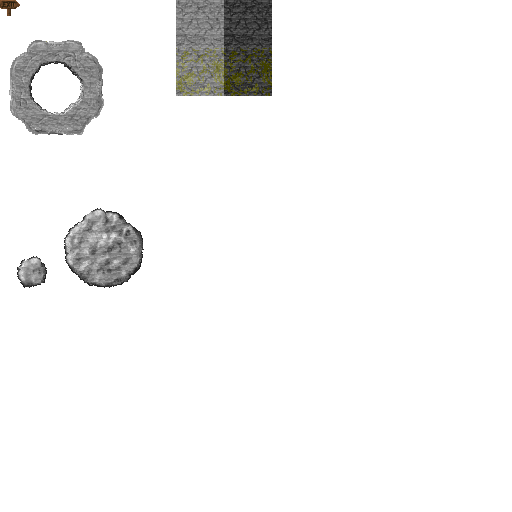
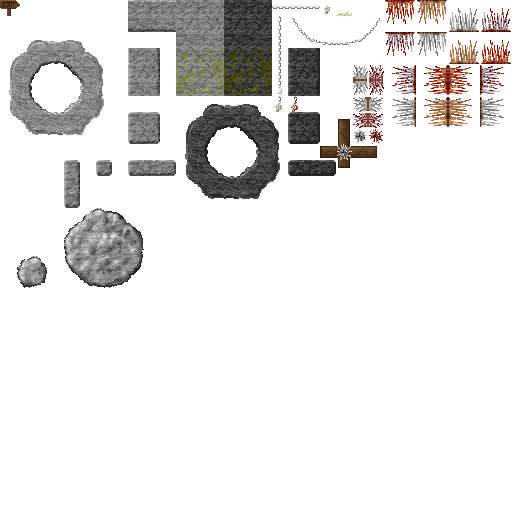
Uusi kartta lisätty Uusia layereitä lisätty GameMapiin Tilesetit päivitetty

diff --git a/SoV/src/sov/GameMap.java b/SoV/src/sov/GameMap.java
@@ -28,7 +28,7 @@ import com.badlogic.gdx.physics.box2d.World;
 public class GameMap {
 	
 	// LayerTypes correspond to layers in Tiled-maps
-	enum LayerType { Foreground, Background, StaticTiles, DynamicTiles, Creatures };
+	enum LayerType { Foreground, Background, StaticTiles, DynamicTiles, Creatures, Traps, Accessories };
 	
 	// Hold a reference to the player, for camera positioning etc.
 	Creature player;
@@ -134,6 +134,12 @@ public class GameMap {
 			} 
 			else if(layer.name.equals("Foreground")) {
 				layerIds.put(LayerType.Foreground, i);
+			}
+			else if(layer.name.equals("Traps")) {
+				layerIds.put(LayerType.Traps, i);
+			}
+			else if(layer.name.equals("Accessories")) {
+				layerIds.put(LayerType.Accessories, i);
 			}
 			
 			
@@ -242,7 +248,9 @@ public class GameMap {
 		if(type == LayerType.Foreground) tileMapRenderer.render(cam, new int[] {layerIds.get(LayerType.Foreground)});
 		if(type == LayerType.Background) tileMapRenderer.render(cam, new int[] {layerIds.get(LayerType.Background)});
 		if(type == LayerType.StaticTiles) tileMapRenderer.render(cam, new int[] {layerIds.get(LayerType.StaticTiles)});
-        
+        if(type == LayerType.Traps) tileMapRenderer.render(cam, new int[] {layerIds.get(LayerType.Traps)});
+        if(type == LayerType.Accessories) tileMapRenderer.render(cam, new int[] {layerIds.get(LayerType.Accessories)});
+		
 		if(type == LayerType.DynamicTiles) {
 			
 			spriteBatch.begin();
@@ -302,6 +310,8 @@ public class GameMap {
 		
 		
 		renderLayer(LayerType.Background, cam, spriteBatch);
+		renderLayer(LayerType.Traps, cam, spriteBatch);
+		renderLayer(LayerType.Accessories, cam, spriteBatch);
 		renderLayer(LayerType.Creatures, cam, spriteBatch);
 		renderLayer(LayerType.StaticTiles, cam, spriteBatch);
 		renderLayer(LayerType.DynamicTiles, cam, spriteBatch);

diff --git a/SoV/src/sov/GameConfiguration.java b/SoV/src/sov/GameConfiguration.java
@@ -15,7 +15,7 @@ public class GameConfiguration {
 	public static boolean devMode = true;
 	
 	// world
-	public static String firstMap = "barbarian_village.tmx";
+	public static String firstMap = "barbarian_cave.tmx";
 	// How quickly does the camera follow the player?
 	public static float interpolationAmount = 1.00f;
 	
